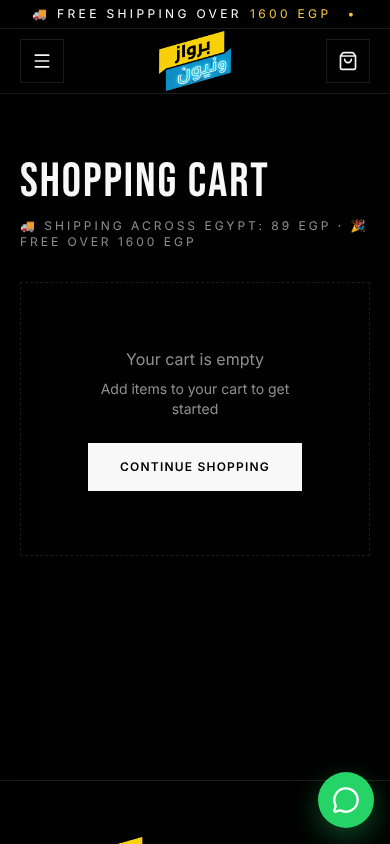
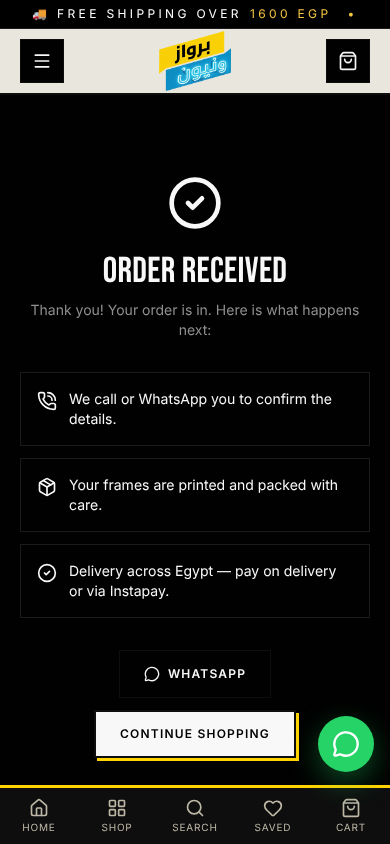
feat(i18n): server renders the visitor's language (cookie / Accept-Language); fixes Arabic hydration mismatch and CLS
Claude-Session: https://claude.ai/code/session_01S3ytNRoHP8CTxYNScwGKqJ

diff --git a/src/lib/i18n.ts b/src/lib/i18n.ts
@@ -5,11 +5,13 @@ import ar from "./locales/ar.json";
 
 const SUPPORTED_LANGS = ["ar", "en"];
 
-// The server always renders with SERVER_LANG. The client must render its FIRST pass with the same
-// language, otherwise React throws a hydration mismatch (#418) and discards the server HTML for every
-// visitor whose preferred language differs. The real preference is applied right after hydration
-// (see `applyPreferredLanguage`, called from LanguageBoot).
-const SERVER_LANG = "en";
+// The server picks the language per request (cookie / Accept-Language, see request-lang.ts) and writes it
+// to <html lang>. The client must render its FIRST pass in that same language, otherwise React throws a
+// hydration mismatch (#418) and discards the server HTML. We read it back from <html lang>. If the visitor's
+// own preference differs (e.g. localStorage from before the cookie existed), `applyPreferredLanguage`
+// (LanguageBoot) reconciles right after hydration and writes the cookie so the next visit is clean.
+const SERVER_LANG: "ar" | "en" =
+  typeof document !== "undefined" && document.documentElement.lang === "ar" ? "ar" : "en";
 const STORAGE_KEY = "brw_preferred_lang";
 
 i18n.use(initReactI18next).init({
@@ -53,16 +55,32 @@ function persistLanguage(lang: string) {
   } catch {
     /* storage unavailable */
   }
+  try {
+    document.cookie = `brw_lang=${lang}; Path=/; Max-Age=31536000; SameSite=Lax`;
+  } catch {
+    /* cookies unavailable */
+  }
 }
 i18n.on("languageChanged", (lang) => {
   if (persistEnabled && typeof window !== "undefined") persistLanguage(lang);
 });
 
+// Resolves once the visitor's language has been applied. UI that would visibly reorder/relabel on the
+// language switch (e.g. the fixed mobile nav, which flips in RTL) waits for it so it never causes a layout shift.
+let markLanguageReady: () => void = () => {};
+export const languageReady: Promise<void> = new Promise((resolve) => {
+  markLanguageReady = resolve;
+});
+
 export function applyPreferredLanguage() {
   const lang = detectPreferredLanguage();
   persistEnabled = true;
-  if (i18n.language !== lang) void i18n.changeLanguage(lang);
-  else persistLanguage(lang);
+  if (i18n.language !== lang) {
+    void i18n.changeLanguage(lang).finally(markLanguageReady);
+  } else {
+    persistLanguage(lang);
+    markLanguageReady();
+  }
 }
 
 export default i18n;

diff --git a/src/routes/__root.tsx b/src/routes/__root.tsx
@@ -9,8 +9,9 @@ import {
   HeadContent,
   Scripts,
 } from "@tanstack/react-router";
-import { lazy, Suspense, useEffect, useRef, useState, type ReactNode } from "react";
+import { lazy, Suspense, useEffect, useMemo, useRef, useState, type ReactNode } from "react";
 import i18n from "@/lib/i18n";
+import { getRequestLang } from "@/lib/request-lang";
 
 import appCss from "../styles.css?url";
 import { reportLovableError } from "../lib/lovable-error-reporting";
@@ -238,6 +239,8 @@ export const Route = createRootRouteWithContext<{ queryClient: QueryClient }>()(
       },
     ],
   }),
+  loader: async () => ({ lang: await getRequestLang() }),
+  staleTime: Infinity,
   shellComponent: RootShell,
   component: RootComponent,
   notFoundComponent: NotFoundComponent,
@@ -245,8 +248,11 @@ export const Route = createRootRouteWithContext<{ queryClient: QueryClient }>()(
 });
 
 function RootShell({ children }: { children: ReactNode }) {
-  const { i18n } = useTranslation();
-  const lang = i18n.language?.startsWith("ar") ? "ar" : "en";
+  // Language is decided per request on the server (loader) and re-read from <html lang> by the client,
+  // so the first client render always matches the server HTML. `useLanguage` keeps lang/dir in sync later.
+  const router = useRouter();
+  const lang =
+    (router.state.matches[0]?.loaderData as { lang?: "ar" | "en" } | undefined)?.lang ?? "en";
   return (
     <html
       lang={lang}
@@ -273,6 +279,13 @@ function RootComponent() {
   const pathname = location.pathname;
   const locationHref = location.href;
   const isAdmin = pathname.startsWith("/admin");
+  const { lang } = Route.useLoaderData();
+  // Server: one i18n instance per request (the global singleton is shared by concurrent requests).
+  // Client: the singleton, which already starts in the server's language.
+  const i18nInstance = useMemo(
+    () => (typeof window === "undefined" ? i18n.cloneInstance({ lng: lang }) : i18n),
+    [lang],
+  );
   useLanguage();
 
   useEffect(() => {
@@ -282,7 +295,7 @@ function RootComponent() {
   }, []);
 
   return (
-    <I18nextProvider i18n={i18n}>
+    <I18nextProvider i18n={i18nInstance}>
       <QueryClientProvider client={queryClient}>
         <CartProvider>
           <WishlistProvider>

diff --git a/src/lib/request-lang.ts b/src/lib/request-lang.ts
@@ -1,0 +1,33 @@
+import { createServerFn } from "@tanstack/react-start";
+
+export type Lang = "ar" | "en";
+export const LANG_COOKIE = "brw_lang";
+
+/** Language the server should render for a request: cookie first, then Accept-Language (first supported
+ *  tag wins; if none is supported -> "ar", like the old client detector). No header at all (bots,
+ *  health checks) keeps "en", which is what the server rendered before, so crawlers see no change. */
+export function resolveRequestLang(cookie: string | null, acceptLanguage: string | null): Lang {
+  const fromCookie = cookie?.match(new RegExp(`(?:^|;\\s*)${LANG_COOKIE}=(ar|en)(?:;|$)`))?.[1];
+  if (fromCookie === "ar" || fromCookie === "en") return fromCookie;
+  if (!acceptLanguage) return "en";
+  const tags = acceptLanguage
+    .split(",")
+    .map((part) => {
+      const [tag, ...params] = part.trim().split(";");
+      const q = Number(params.find((p) => p.trim().startsWith("q="))?.split("=")[1] ?? "1");
+      return { tag: tag.trim().toLowerCase(), q: Number.isFinite(q) ? q : 0 };
+    })
+    .filter((t) => t.tag && t.q > 0)
+    .sort((a, b) => b.q - a.q);
+  for (const { tag } of tags) {
+    if (tag.startsWith("ar")) return "ar";
+    if (tag.startsWith("en")) return "en";
+  }
+  return "ar";
+}
+
+export const getRequestLang = createServerFn({ method: "GET" }).handler(async (): Promise<Lang> => {
+  const { getRequest } = await import("@tanstack/react-start/server");
+  const req = getRequest();
+  return resolveRequestLang(req.headers.get("cookie"), req.headers.get("accept-language"));
+});

diff --git a/src/components/v2/MobileBottomNav.tsx b/src/components/v2/MobileBottomNav.tsx
@@ -1,7 +1,8 @@
 import { Link, useRouterState } from "@tanstack/react-router";
 import { Heart, Home, LayoutGrid, Search, ShoppingBag } from "lucide-react";
 import { useTranslation } from "react-i18next";
-import { useEffect } from "react";
+import { useEffect, useState } from "react";
+import { languageReady } from "@/lib/i18n";
 import { useCart } from "@/lib/cart";
 import { setStickyBarHeight } from "@/lib/floating-tools";
 
@@ -13,7 +14,17 @@ export function MobileBottomNav() {
   const ar = i18n.language?.startsWith("ar");
   const path = useRouterState({ select: (s) => s.location.pathname });
   const { count } = useCart();
-  const hidden = HIDDEN_PREFIXES.some((p) => path.startsWith(p));
+  // Mount only after the visitor's language is applied: the nav flips order/labels in RTL, which would
+  // otherwise register as a large layout shift on Arabic visits.
+  const [ready, setReady] = useState(false);
+  useEffect(() => {
+    let live = true;
+    void languageReady.then(() => live && setReady(true));
+    return () => {
+      live = false;
+    };
+  }, []);
+  const hidden = !ready || HIDDEN_PREFIXES.some((p) => path.startsWith(p));
   useEffect(() => {
     if (hidden || !window.matchMedia("(max-width: 767px)").matches) return;
     setStickyBarHeight(56); // floating widgets sit above the nav

diff --git a/src/lib/request-lang.test.ts b/src/lib/request-lang.test.ts
@@ -1,0 +1,25 @@
+import { describe, expect, it } from "vitest";
+import { resolveRequestLang } from "./request-lang";
+
+describe("resolveRequestLang", () => {
+  it("cookie wins over Accept-Language", () => {
+    expect(resolveRequestLang("a=1; brw_lang=ar; b=2", "en-US,en;q=0.9")).toBe("ar");
+    expect(resolveRequestLang("brw_lang=en", "ar")).toBe("en");
+  });
+  it("ignores invalid cookie values", () => {
+    expect(resolveRequestLang("brw_lang=fr", "ar-EG")).toBe("ar");
+    expect(resolveRequestLang("xbrw_lang=ar", null)).toBe("en");
+  });
+  it("uses Accept-Language by preference order and q-values", () => {
+    expect(resolveRequestLang(null, "ar-EG,ar;q=0.9,en;q=0.8")).toBe("ar");
+    expect(resolveRequestLang(null, "en-US,en;q=0.9,ar;q=0.8")).toBe("en");
+    expect(resolveRequestLang(null, "en;q=0.5,ar;q=0.9")).toBe("ar");
+  });
+  it("unsupported languages fall back to ar (old detector behaviour)", () => {
+    expect(resolveRequestLang(null, "fr-FR,fr;q=0.9")).toBe("ar");
+  });
+  it("no signals keeps en so crawlers see the same HTML as before", () => {
+    expect(resolveRequestLang(null, null)).toBe("en");
+    expect(resolveRequestLang("", "")).toBe("en");
+  });
+});

diff --git a/docs/v2/V2_REPORT.md b/docs/v2/V2_REPORT.md
@@ -67,11 +67,26 @@ Ran the repo's real `search_posters` v1 and the proposed v2 side by side. The te
 ## Slice 10: order protection SQL written and tested (scratch PostgreSQL)
 Found from the repo's own migrations: anonymous visitors can currently insert an order with `total_price = 0` and `payment_status = 'verified'`. `02_orders_idempotency_and_price_check.sql` is now a real BEFORE INSERT guard (exempts admin/service_role; blocks forged payment state, inconsistent totals, absurd quantities, and prices below a configurable % of list). Ships in `log` mode first. 13-case test table in `order_guard_test_results.md`; testing found and fixed two bugs in my draft (SECURITY DEFINER hid the caller role; array concat error). Not applied anywhere. It is a floor/consistency check, not full server-side pricing.
 
-## Slice 11: Arabic hydration (React #418) — root cause fixed, measured
-- **Root cause (found with the dev build's full message):** the server always renders English (even with `Accept-Language: ar`; `<html lang="en">`), while the client's language detector picked Arabic *before* hydrating. For every Arabic visitor the first client render differed from the server HTML, so React discarded the server DOM and rebuilt the page (wasted SSR + slower first paint).
-- **Fix:** `lib/i18n.ts` no longer detects at init; it renders the first pass in the server's language, then `LanguageBoot` applies the visitor's language right after hydration (same order as before: stored `brw_preferred_lang` → browser language → `ar`; unsupported → `ar`; choice cached in localStorage as the old detector did).
-- **Measured** (Playwright, tagging the server-rendered `<main>`/`<header>` nodes, locale `ar`): baseline `main` → both nodes replaced (page rebuilt); this branch → both preserved. English unchanged. Language/persistence verified for ar/en/stored combinations and `fr` → ar.
-- **Residual:** one text mismatch can still be logged for Arabic visitors inside a lazily-hydrating Suspense boundary (hero "Shop Now") when the language switches before that boundary has hydrated; it only regenerates that boundary, not the page. A full fix needs the server to render the visitor's language (cookie/Accept-Language per request), a larger change.
+## Slice 11: Arabic hydration + language SSR — root cause fixed, measured
+- **Root cause:** the server always rendered English (`<html lang="en">`) even for `Accept-Language: ar`, while the client's detector picked Arabic before hydrating. For every Arabic visitor the first client render differed from the server HTML, so React discarded the server DOM and rebuilt the page (React #418).
+- **Fix (two layers):** (1) the server now chooses the language per request — cookie `brw_lang`, else `Accept-Language` (first supported tag; none supported → `ar`; no header at all → `en`, so crawlers/bots see the same HTML as before) — via a root loader (`lib/request-lang.ts`), and renders with a per-request i18n instance; (2) the client starts in the server's language by reading `<html lang>`, then `LanguageBoot` reconciles with the visitor's saved preference (localStorage) and writes the cookie, so only a visitor with an old localStorage preference and no cookie sees one transition, on the first visit. A manual language switch persists to cookie + localStorage.
+- **Measured** (Playwright, Pixel-like 390px, 4× CPU throttle, mock backend, `main` vs this branch):
+  - Arabic visitor (`Accept-Language: ar`): hydration errors 1 → **0**; server `<main>`/`<header>` DOM preserved (baseline: replaced); CLS 0.142 (first attempt, language switched after hydration) → **0.004**.
+  - Visits 2 and 3 of a visitor with an old localStorage preference: 0 hydration errors; language toggle updates html lang/dir, cookie and localStorage; reload keeps the choice.
+  - English visitors unchanged.
+- Note on the metric: the baseline's low Arabic CLS (0.003) was an artifact of React replacing nodes; field CLS would have shown the language flip. Server-side language removes the flip itself.
+- 5 unit tests for `resolveRequestLang`.
+
+## Slice 12: performance BEFORE / AFTER (local, mock backend, 4× CPU throttle, 390px, median of 5–7 runs; indicative, not Lighthouse)
+| | main (before) | this branch (after) |
+|---|---|---|
+| LCP (hero image) | 796–816 ms | 708–772 ms (not slower; earlier +40–70 ms readings were noise/order of sections, rechecked with 7 runs and long-task data) |
+| FCP | ~724 ms | ~676 ms |
+| CLS, English | 0.001–0.006 | 0.001–0.004 |
+| CLS, Arabic | 0.003 | 0.004 (after server-side language) |
+| CSS (raw, home) | 31.3 KB | 33.1 KB (+1.8 KB: V2 theme) |
+| JS requested on home (raw) | ~343–357 KB / 62 files | ~350–362 KB / 66–67 files (+~2–5%: V2 section chunks; entry chunk +0.6% gz) |
+Not measured: real Lighthouse, real network/CDN, real data. Re-run on a Vercel preview before any release.
 
 ## Not changed on purpose
 Checkout logic (`cart.tsx`), image pipeline, SafeImage, perf flags, backups, auth, existing migrations.
